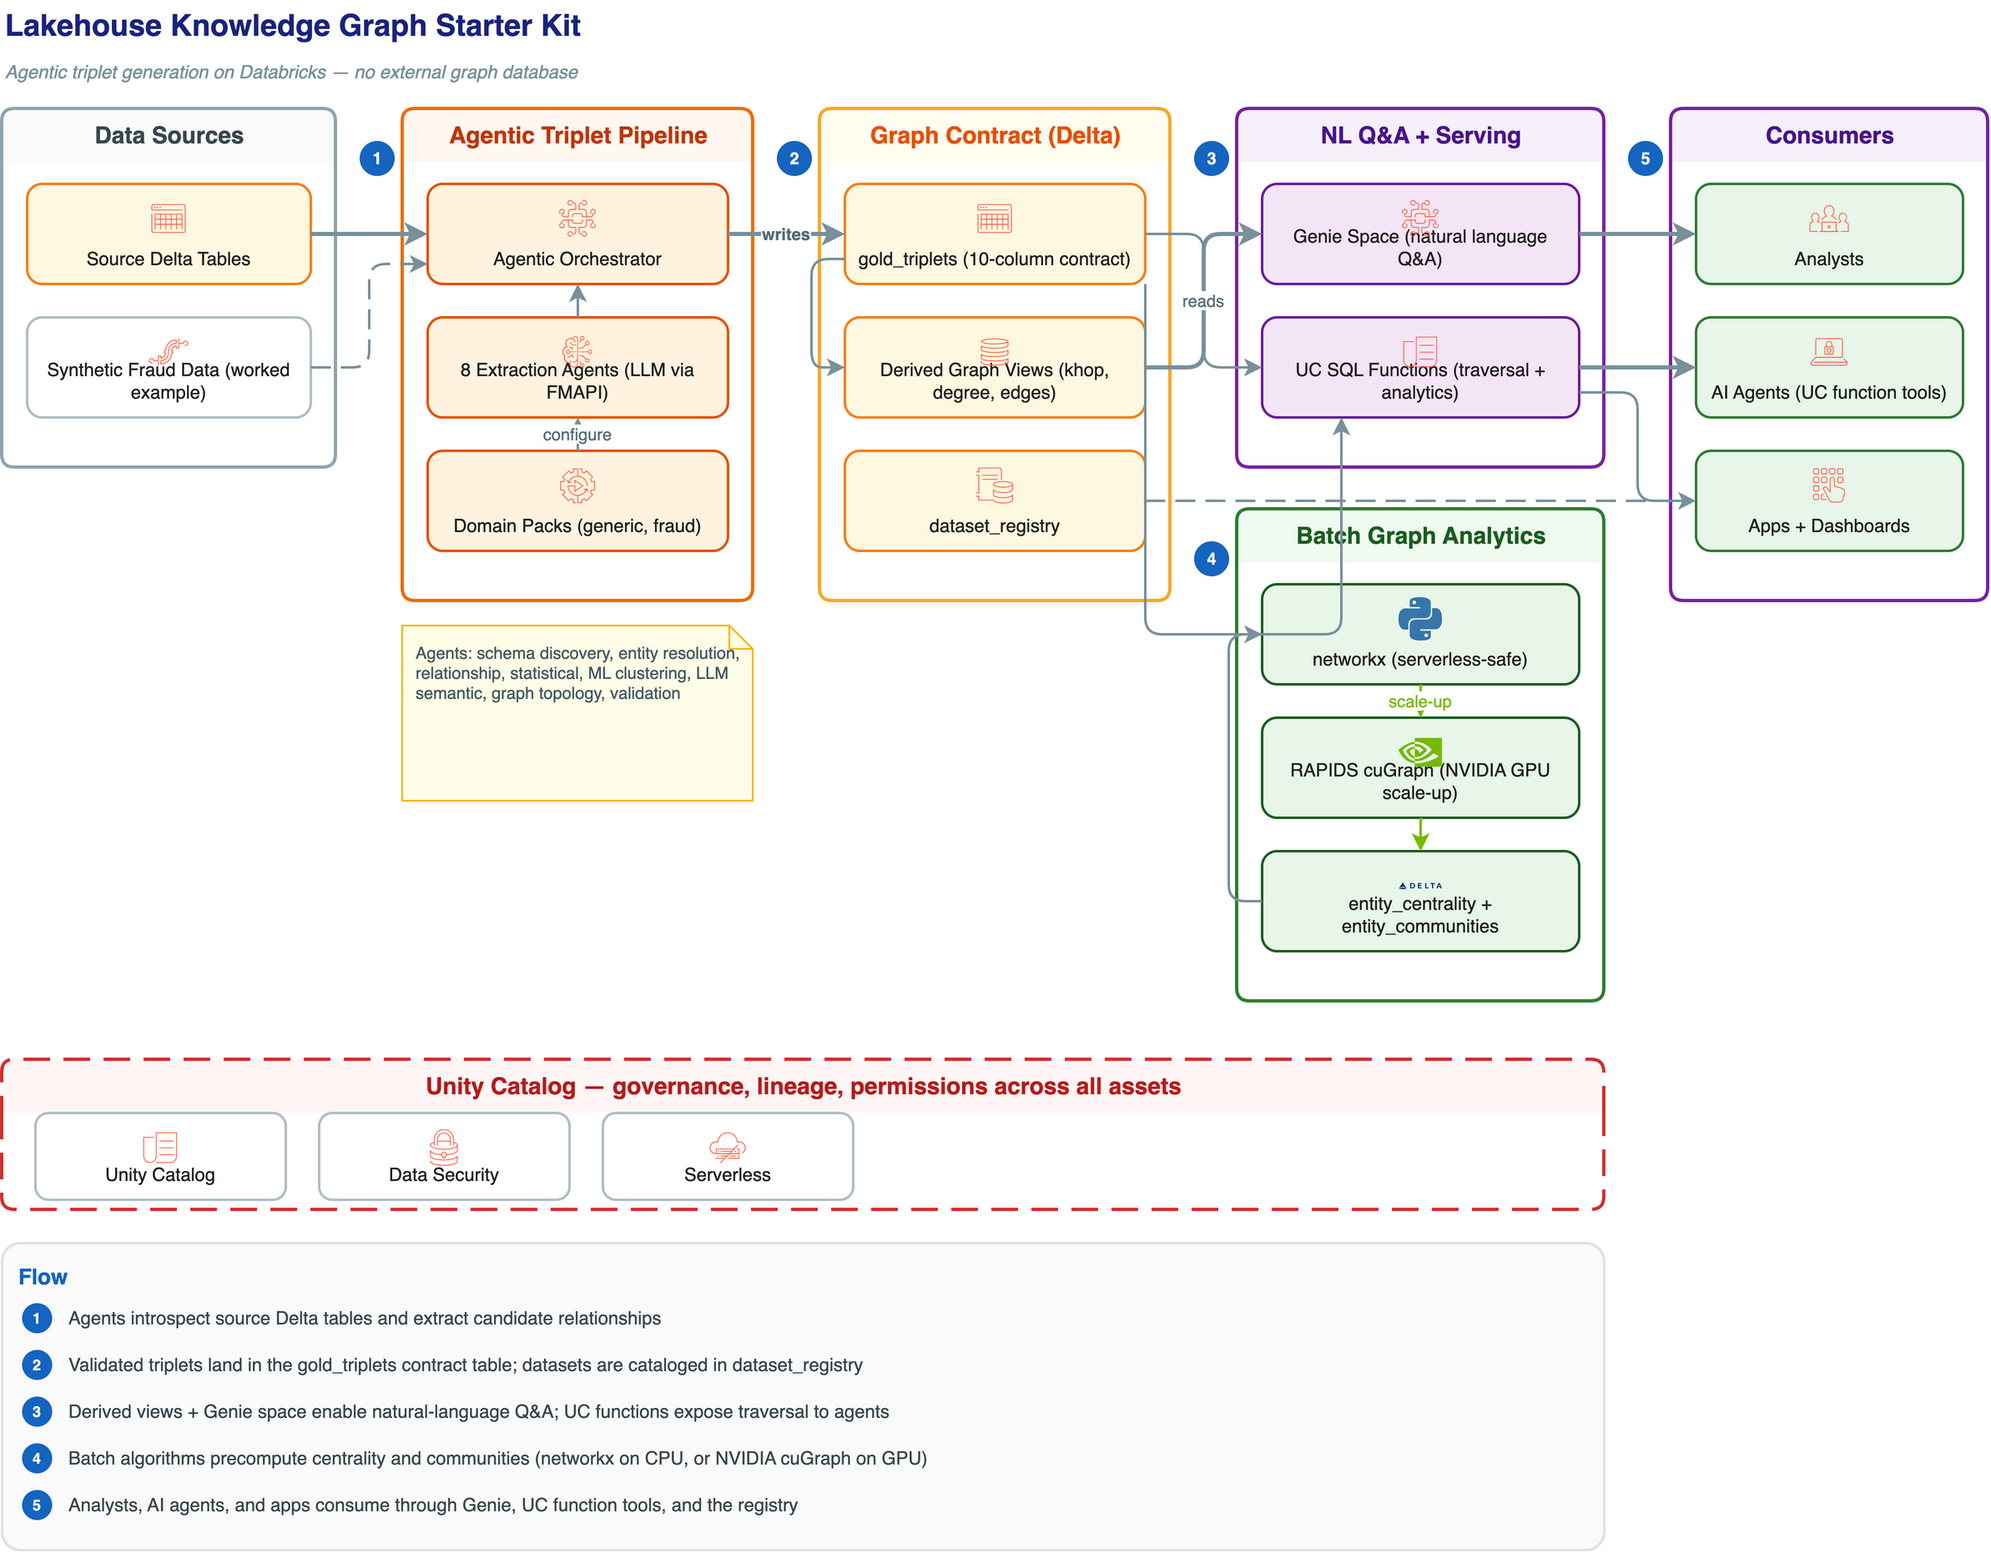
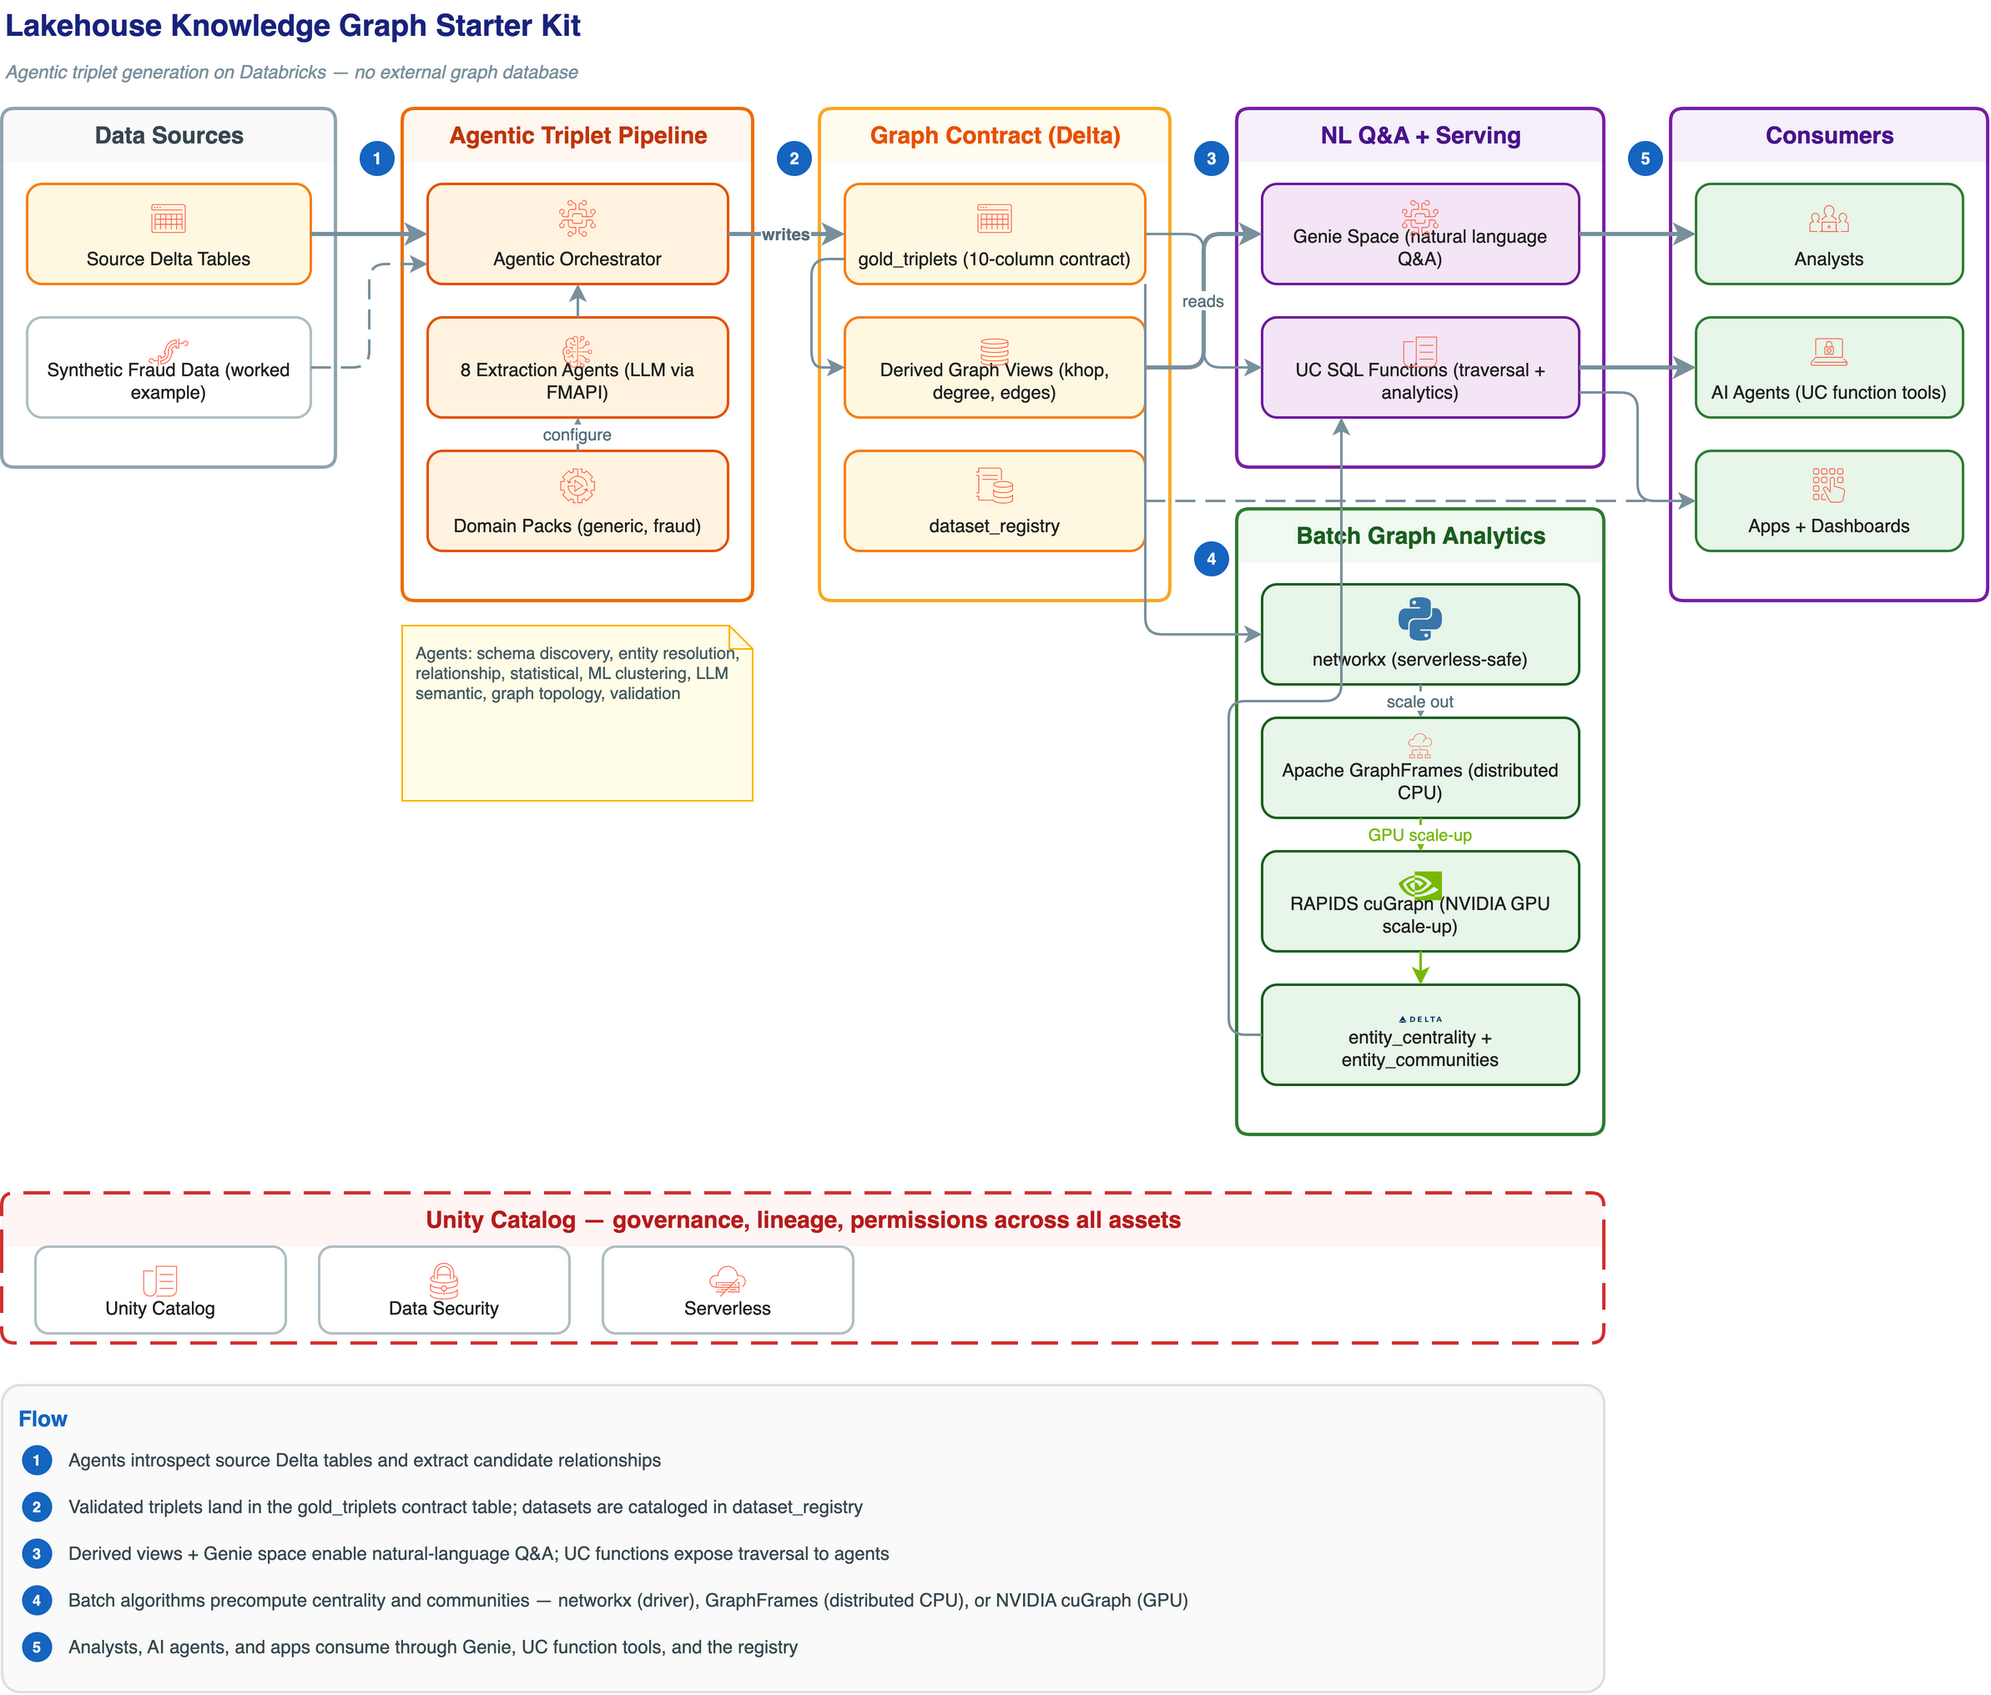
Add Apache GraphFrames distributed-CPU analytics notebook
notebooks/08_graphframes_distributed.py writes the same
entity_centrality/entity_communities tables as 06/07 using the public
GraphFrames package (pre-installed on ML runtimes): PageRank, degree,
label propagation for communities (no Louvain in GraphFrames),
connected components; betweenness written as NULL. Adds
cluster_specs/classic_graphframes.json and updates README, notebook 06
pointers, and the architecture diagram with the third engine.

Changed region(s): [[0.0, 0.0, 1.0, 0.6853], [0.0, 0.6853, 0.8064, 0.9968], [0.9925, 0.3426, 1.0, 0.4049]]

diff --git a/notebooks/08_graphframes_distributed.py b/notebooks/08_graphframes_distributed.py
@@ -1,0 +1,198 @@
+# Databricks notebook source
+# MAGIC %md
+# MAGIC # 08 — Distributed graph analytics with Apache GraphFrames (scale-out CPU alternative)
+# MAGIC
+# MAGIC The distributed CPU alternative to `notebooks/06_graph_algorithms.py`: when
+# MAGIC `gold_triplets` grows past what the driver-side networkx path handles (~5M
+# MAGIC edges) and a GPU cluster (`notebooks/07_cugraph_gpu.py`) is not an option,
+# MAGIC [Apache GraphFrames](https://graphframes.github.io/graphframes/docs/_site/index.html)
+# MAGIC runs the same analytics as distributed Spark jobs. It reads `gold_triplets`
+# MAGIC as the edge list and writes the **same two output tables**, so the serving
+# MAGIC UC functions (`sql/04_analytics_functions.sql`) work unchanged.
+# MAGIC
+# MAGIC | Output table | Columns |
+# MAGIC |---|---|
+# MAGIC | `entity_centrality` | entity_id, entity_type, pagerank, degree, betweenness (NULL) |
+# MAGIC | `entity_communities` | entity_id, entity_type, community_id, community_size, component_id |
+# MAGIC
+# MAGIC ### Algorithms (and how they differ from notebook 06)
+# MAGIC | Algorithm | Notes |
+# MAGIC |---|---|
+# MAGIC | PageRank | directed, damping 0.85, fixed iterations |
+# MAGIC | Degree | undirected degree (mutual edges collapsed, matching notebook 06) |
+# MAGIC | Betweenness | **not available in GraphFrames** — written as NULL (the serving functions tolerate it) |
+# MAGIC | Label propagation | GraphFrames has no Louvain; LPA fills `community_id` instead. Communities are comparable but not identical to notebook 06's Louvain output |
+# MAGIC | Connected components | persisted as `component_id` (requires a checkpoint directory) |
+# MAGIC
+# MAGIC ### Cluster requirement
+# MAGIC Run on a **Databricks ML runtime** cluster (e.g. `16.4.x-cpu-ml-scala2.12` —
+# MAGIC see `cluster_specs/classic_graphframes.json`): GraphFrames ships pre-installed
+# MAGIC there, no library install needed. Standard (non-ML) runtimes and serverless
+# MAGIC compute do not include it — use notebook 06 on those instead.
+
+# COMMAND ----------
+
+try:
+    from graphframes import GraphFrame
+except ImportError as e:
+    raise ImportError(
+        "graphframes is not available on this cluster. Attach an ML runtime cluster "
+        "(cluster_specs/classic_graphframes.json) - GraphFrames ships pre-installed there. "
+        "On non-ML or serverless compute, use notebooks/06_graph_algorithms.py instead."
+    ) from e
+
+# COMMAND ----------
+
+dbutils.widgets.text("catalog", "main")
+dbutils.widgets.text("schema", "knowledge_graph")
+dbutils.widgets.text("min_confidence", "0.0", "minimum triplet confidence to include (NULL confidence is kept)")
+dbutils.widgets.text("exclude_source_agents", "graph_topology,ml_clustering,statistical_analysis", "source_agents whose triplets are excluded from the input graph (comma-sep)")
+dbutils.widgets.text("pagerank_max_iter", "20", "fixed PageRank iterations")
+dbutils.widgets.text("lpa_max_iter", "10", "label-propagation iterations")
+dbutils.widgets.text("checkpoint_dir", "dbfs:/tmp/lakehouse_kg_gf_checkpoints", "checkpoint dir (required by connectedComponents)")
+
+CATALOG = dbutils.widgets.get("catalog").strip()
+SCHEMA = dbutils.widgets.get("schema").strip()
+MIN_CONFIDENCE = float(dbutils.widgets.get("min_confidence"))
+EXCLUDE_AGENTS = [a.strip() for a in dbutils.widgets.get("exclude_source_agents").split(",") if a.strip()]
+PAGERANK_MAX_ITER = int(dbutils.widgets.get("pagerank_max_iter"))
+LPA_MAX_ITER = int(dbutils.widgets.get("lpa_max_iter"))
+CHECKPOINT_DIR = dbutils.widgets.get("checkpoint_dir").strip()
+
+FQ = CATALOG + "." + SCHEMA
+GT = FQ + ".gold_triplets"
+print("Input:  " + GT)
+print("Output: " + FQ + ".entity_centrality, " + FQ + ".entity_communities")
+
+spark.sparkContext.setCheckpointDir(CHECKPOINT_DIR)
+
+# COMMAND ----------
+
+# MAGIC %md ## 1. Build the vertex and edge DataFrames
+# MAGIC
+# MAGIC Same input contract as notebook 06: by default only *structural* triplets
+# MAGIC feed the algorithms (see the `exclude_source_agents` note there). Everything
+# MAGIC stays a distributed DataFrame — nothing is collected to the driver.
+
+# COMMAND ----------
+
+from pyspark.sql import functions as F
+
+triplets = (
+    spark.table(GT)
+    .where((F.col("confidence").isNull()) | (F.col("confidence") >= MIN_CONFIDENCE))
+    .where(~F.col("source_agent").isin(EXCLUDE_AGENTS) if EXCLUDE_AGENTS else F.lit(True))
+    .where(F.col("subject_id").isNotNull() & F.col("object_id").isNotNull())
+    .select("subject_id", "subject_type", "object_id", "object_type")
+)
+
+edges = triplets.select(
+    F.col("subject_id").alias("src"), F.col("object_id").alias("dst")
+).where(F.col("src") != F.col("dst")).distinct().cache()
+
+vertices = (
+    triplets.select(F.col("subject_id").alias("id"), F.col("subject_type").alias("entity_type"))
+    .unionByName(triplets.select(F.col("object_id").alias("id"), F.col("object_type").alias("entity_type")))
+    .groupBy("id").agg(F.max("entity_type").alias("entity_type"))
+    .cache()
+)
+
+n_edges, n_vertices = edges.count(), vertices.count()
+if n_edges == 0:
+    raise ValueError(GT + " has no rows - run the triplet-generation notebooks (01-04) first.")
+print("graph: V={:,}, E={:,} (distinct directed edges)".format(n_vertices, n_edges))
+
+g = GraphFrame(vertices, edges)
+
+# COMMAND ----------
+
+# MAGIC %md ## 2. PageRank + degree
+
+# COMMAND ----------
+
+pr = g.pageRank(resetProbability=0.15, maxIter=PAGERANK_MAX_ITER)
+pagerank_df = pr.vertices.select("id", "pagerank")
+
+# Undirected degree with mutual edges collapsed, matching notebook 06's semantics
+und_edges = edges.select(
+    F.least("src", "dst").alias("a"), F.greatest("src", "dst").alias("b")
+).distinct()
+degree_df = (
+    und_edges.select(F.col("a").alias("id"))
+    .unionByName(und_edges.select(F.col("b").alias("id")))
+    .groupBy("id").agg(F.count("*").alias("degree"))
+)
+print("pagerank + degree computed")
+
+# COMMAND ----------
+
+# MAGIC %md ## 3. Label-propagation communities + connected components
+
+# COMMAND ----------
+
+lpa_df = g.labelPropagation(maxIter=LPA_MAX_ITER).select("id", F.col("label").alias("community_id"))
+cc_df = g.connectedComponents().select("id", F.col("component").alias("component_id"))
+
+community_sizes = lpa_df.groupBy("community_id").agg(F.count("*").alias("community_size"))
+n_communities = community_sizes.count()
+print("label propagation: {:,} communities".format(n_communities))
+
+# COMMAND ----------
+
+# MAGIC %md ## 4. Write `entity_centrality` and `entity_communities`
+# MAGIC
+# MAGIC Identical schemas to notebooks 06/07. Betweenness has no GraphFrames
+# MAGIC implementation, so the column is written as NULL — `top_central_entities`
+# MAGIC and friends read pagerank/degree and tolerate it.
+
+# COMMAND ----------
+
+centrality_df = (
+    vertices
+    .join(pagerank_df, "id", "left")
+    .join(degree_df, "id", "left")
+    .select(
+        F.col("id").cast("string").alias("entity_id"),
+        F.col("entity_type").cast("string"),
+        F.coalesce(F.col("pagerank"), F.lit(0.0)).cast("double").alias("pagerank"),
+        F.coalesce(F.col("degree"), F.lit(0)).cast("bigint").alias("degree"),
+        F.lit(None).cast("double").alias("betweenness"),
+    )
+)
+
+communities_df = (
+    vertices
+    .join(lpa_df, "id", "left")
+    .join(community_sizes, "community_id", "left")
+    .join(cc_df, "id", "left")
+    .select(
+        F.col("id").cast("string").alias("entity_id"),
+        F.col("entity_type").cast("string"),
+        F.col("community_id").cast("bigint"),
+        F.col("community_size").cast("bigint"),
+        F.col("component_id").cast("bigint"),
+    )
+)
+
+(centrality_df.write.mode("overwrite").option("overwriteSchema", "true")
+    .saveAsTable(FQ + ".entity_centrality"))
+(communities_df.write.mode("overwrite").option("overwriteSchema", "true")
+    .saveAsTable(FQ + ".entity_communities"))
+
+print("wrote {:,} rows to {}.entity_centrality".format(n_vertices, FQ))
+print("wrote {:,} rows to {}.entity_communities".format(n_vertices, FQ))
+
+# COMMAND ----------
+
+# MAGIC %md ## 5. Sanity check via the serving functions
+
+# COMMAND ----------
+
+print("--- top_central_entities(10) ---")
+display(spark.sql("SELECT * FROM " + FQ + ".top_central_entities(10)"))
+
+print("--- largest communities ---")
+display(spark.sql(
+    "SELECT community_id, MAX(community_size) AS community_size, COUNT(*) AS n_members "
+    "FROM " + FQ + ".entity_communities GROUP BY community_id ORDER BY community_size DESC LIMIT 10"
+))

diff --git a/notebooks/06_graph_algorithms.py b/notebooks/06_graph_algorithms.py
@@ -26,11 +26,12 @@
 # MAGIC ### Scale guidance
 # MAGIC This notebook is intentionally **pure Python on the driver** so it runs on
 # MAGIC serverless compute with no cluster-config knobs. That works comfortably up to
-# MAGIC roughly **~5M edges**. Beyond that, switch to the scale-up alternative in
-# MAGIC `notebooks/07_cugraph_gpu.py` (NVIDIA RAPIDS cuGraph on a GPU cluster —
-# MAGIC writes the exact same two output tables) or a distributed library
-# MAGIC (GraphFrames / iterative Spark joins). The `max_driver_edges` widget enforces
-# MAGIC this with a hard stop rather than a silent OOM.
+# MAGIC roughly **~5M edges**. Beyond that, switch to one of the two scale
+# MAGIC alternatives — both write the exact same two output tables:
+# MAGIC `notebooks/07_cugraph_gpu.py` (NVIDIA RAPIDS cuGraph on a GPU cluster) or
+# MAGIC `notebooks/08_graphframes_distributed.py` (Apache GraphFrames, distributed
+# MAGIC CPU). The `max_driver_edges` widget enforces this with a hard stop rather
+# MAGIC than a silent OOM.
 
 # COMMAND ----------
 
@@ -93,7 +94,8 @@ if n_edges == 0:
 if n_edges > MAX_DRIVER_EDGES:
     raise ValueError(
         "gold_triplets has {:,} edges, above the {:,} driver limit. ".format(n_edges, MAX_DRIVER_EDGES)
-        + "Use notebooks/07_cugraph_gpu.py (GPU cuGraph, same output tables) or a distributed graph library."
+        + "Use notebooks/07_cugraph_gpu.py (GPU cuGraph) or notebooks/08_graphframes_distributed.py "
+        + "(Apache GraphFrames, distributed CPU) - both write the same output tables."
     )
 
 pdf = edges_sdf.toPandas()

diff --git a/README.md b/README.md
@@ -19,7 +19,7 @@ produce that table — with this pipeline or their own — gets the entire consu
 | Data model | `sql/01_gold_triplets.sql`, `sql/02_dataset_registry.sql` |
 | Genie space | `notebooks/03_derive_graph_views.py`, `notebooks/04_create_genie_space.py` (REST automation) |
 | Graph-algo UC functions | `sql/03_traversal_functions.sql`, `sql/04_analytics_functions.sql`, `notebooks/05_register_uc_functions.py` |
-| Batch algorithms | `notebooks/06_graph_algorithms.py` (networkx, serverless-safe), `notebooks/07_cugraph_gpu.py` (NVIDIA RAPIDS cuGraph) |
+| Batch algorithms | `notebooks/06_graph_algorithms.py` (networkx, serverless-safe), `notebooks/07_cugraph_gpu.py` (NVIDIA RAPIDS cuGraph), `notebooks/08_graphframes_distributed.py` (Apache GraphFrames, distributed CPU) |
 | Worked example | Synthetic fraud dataset (`notebooks/01_synthetic_data.py`) + fraud domain pack |
 | Diagram | `docs/architecture.drawio` (editable in draw.io / Lucidchart), `docs/architecture.png` |
 
@@ -35,7 +35,8 @@ order. All notebooks are parameterized with widgets — defaults target
 4. **`04_create_genie_space`** — create/update a Genie space over those views via the REST API, seeded with instructions, sample questions, and example SQL.
 5. **`05_register_uc_functions`** — register 8 UC SQL functions (traversal + analytics serving).
 6. **`06_graph_algorithms`** — precompute PageRank, degree, betweenness, Louvain communities, connected components into `entity_centrality` + `entity_communities` (networkx on the driver; guarded for graphs up to ~5M edges).
-7. **`07_cugraph_gpu`** — the scale-up alternative to 06: same outputs, computed on GPU with NVIDIA RAPIDS cuGraph (`cluster_specs/gpu_cugraph.json` has a ready cluster spec).
+7. **`07_cugraph_gpu`** — GPU scale-up alternative to 06: same outputs, computed with NVIDIA RAPIDS cuGraph (`cluster_specs/gpu_cugraph.json` has a ready cluster spec).
+8. **`08_graphframes_distributed`** — distributed-CPU scale-out alternative to 06: same outputs via Apache GraphFrames on an ML-runtime cluster (`cluster_specs/classic_graphframes.json`), where GraphFrames ships pre-installed. Label propagation stands in for Louvain; betweenness is written as NULL.
 
 ## The triplet contract
 
@@ -104,12 +105,13 @@ in the `sql/` files). All are `RETURNS TABLE`, callable from SQL, Genie, or as a
 - **Traversal** (read `gold_triplets` directly): `neighbors(entity_id)`, `khop(entity_id, k)`, `connection_path(a, b)`, `subgraph_edges(entity_id, k)`.
 - **Analytics serving** (read the precomputed tables): `cluster_of(entity_id)`, `members_of_cluster(community_id)`, `top_central_entities(n)`, `shared_community(a, b)`.
 
-The analytics pattern: run the expensive algorithms in batch (notebook 06 or 07), persist
-`entity_centrality` + `entity_communities`, and serve results through cheap UC-function
-lookups.
+The analytics pattern: run the expensive algorithms in batch (notebook 06, 07, or 08 —
+pick by scale and available compute), persist `entity_centrality` + `entity_communities`,
+and serve results through cheap UC-function lookups.
 
 ## Compatibility notes
 
 - All k-hop traversal (views and UC functions) uses fixed-hop `UNION ALL` join chains, deliberately avoiding `WITH RECURSIVE`: Spark's recursive-CTE executor materializes the full transitive closure before outer filters apply, which exceeds the recursion row limit on dense graphs. The fixed-hop form gets normal predicate pushdown, so always query k-hop views with a `start_id` filter (the seeded Genie instructions do this).
-- Notebook 06 runs networkx on the driver and is serverless-safe; it refuses graphs beyond a configurable edge cap (default 5M) and points you at notebook 07 (GPU) instead.
+- Notebook 06 runs networkx on the driver and is serverless-safe; it refuses graphs beyond a configurable edge cap (default 5M) and points you at notebook 07 (GPU) or 08 (distributed CPU) instead.
+- Notebook 08 requires a Databricks **ML runtime** cluster — GraphFrames ships pre-installed there (standard runtimes and serverless don't include it).
 - The synthetic data, all names, and all identifiers in this repo are generated — no real data ships here.
